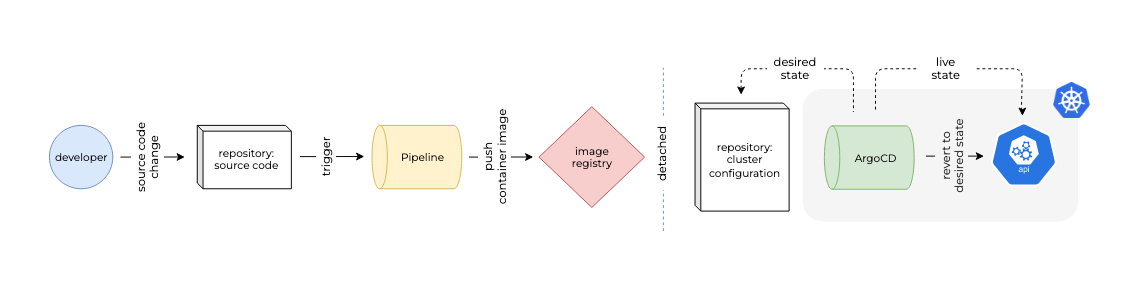
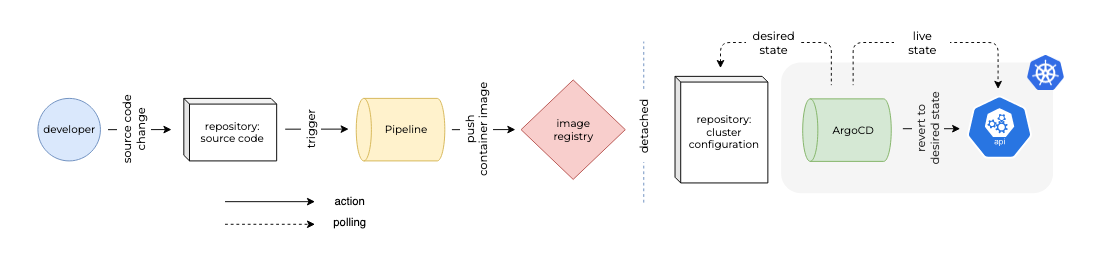
chore: add legenda to architecture images

diff --git a/README.md b/README.md
@@ -22,6 +22,8 @@ In a second - detached - part of the process, the cluster configuration reposito
 
 ![gitops-default-overview](assets/gitops-default-overview.png)
 
+![Alt text](image.png)
+
 #### extended gitops
 
 Compared to the default process, in this extended variant another Argo CD component is added to the Kubernetes cluster. The Argo CD Image Updater component will verify if a more recent version of a container image exists within the image registry. If such version is identified, the component will either directly or indirectly update the running application. In the next section we'll delve into the configuration options for the Argo CD Image Updater aswell as the implementation of the component.
@@ -111,6 +113,10 @@ jobs:
     name: build and push container image
     runs-on: ubuntu-latest
     
+    permissions:
+      contents: read
+      packages: write
+
     steps:
       - name: checkout source code
         uses: actions/checkout@v4
@@ -149,6 +155,7 @@ For simplicity sake the image registry is made public so that additional authent
 #### cluster configuration
 
 
-#### 
+
+#### demonstration
 
 
